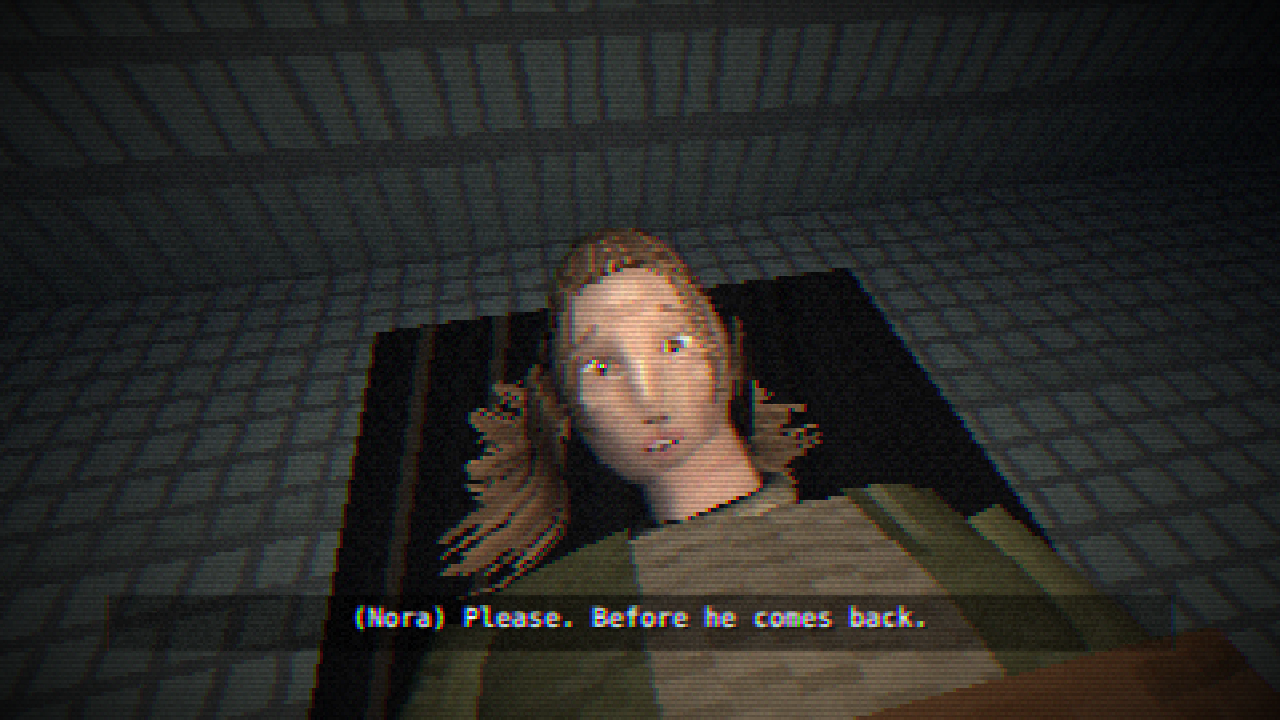
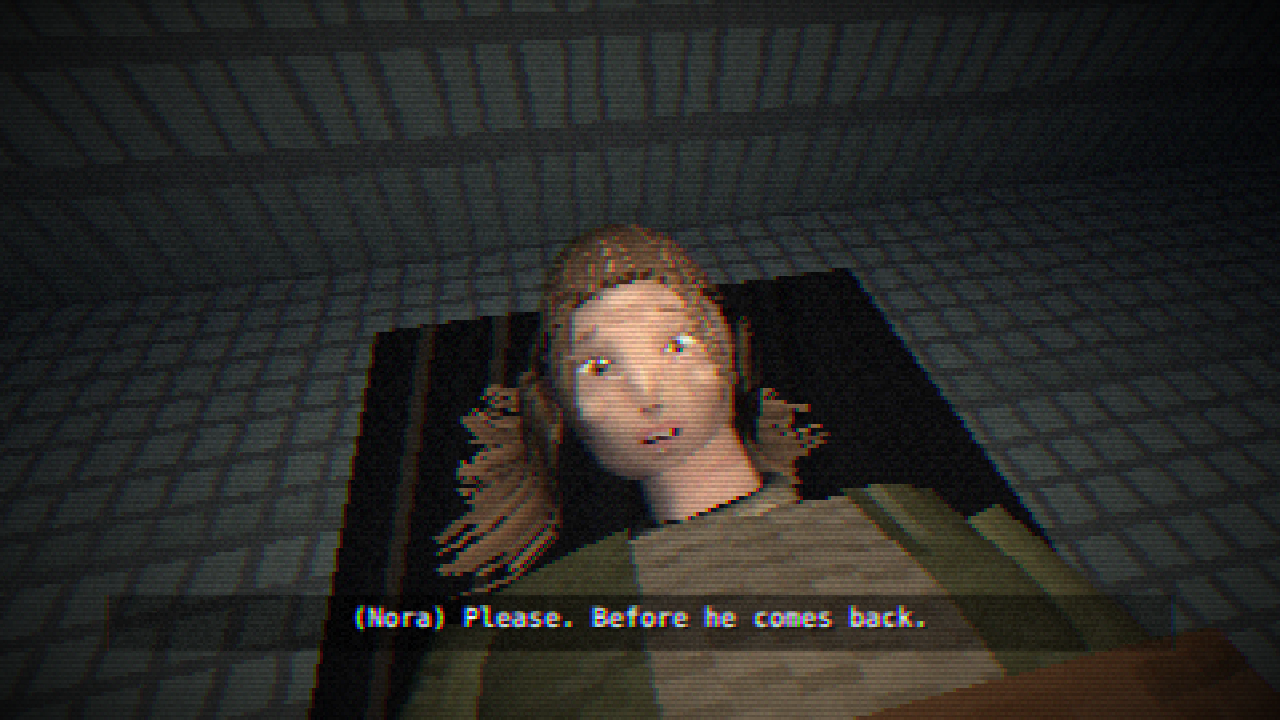
0.2.93: wing 4 stills, eleventh pass (nothing built)
Nora, after the owner's picks: her nose smaller, shorter and softer (a
short bridge, a round tip, only a faint light down it); her face rounder
with full cheeks and a soft chin and jaw; her hair fuller on top, rising
over her crown and either side of the parting, and her hairline lower.
Her mouth moved up with the shorter nose so it still sits a lip's height
under it. Mockup code only; nothing in the game changes.

Claude-Session: https://claude.ai/code/session_01Kt2ajWcwzg7QhP3mDk3ZUu

Changed region(s): [[0.3438, 0.3056, 0.6562, 0.8556], [0.5938, 0.6417, 0.625, 0.6722]]

diff --git a/src/props/noraFace.js b/src/props/noraFace.js
@@ -19,9 +19,9 @@ const seeded = (seed) => () => (seed = (seed * 16807) % 2147483647) / 2147483647
 export const FACE = {
   eye: [0.4, 0.03, 0.92],
   brow: [0.4, 0.2, 0.9],
-  noseTip: [0, -0.28, 0.96],
-  mouth: [0, -0.54, 0.84], // owner: the mouth sat a little far down (now a lip's height under her nose)
-  chin: [0, -0.86, 0.5],
+  noseTip: [0, -0.24, 0.97], // owner: smaller, shorter, softer
+  mouth: [0, -0.5, 0.86], // owner: the mouth sat a little far down (now a lip's height under her nose)
+  chin: [0, -0.84, 0.54],
 };
 
 const SKIN = [180, 144, 124];
@@ -72,8 +72,8 @@ function lightAndShade(g, at) {
     blot(g, ...at(mirror([0.4, 0.07, 0.91], side)), 13, 6, 'rgba(120,84,72,0.38)'); // the sockets, under the brow
     blot(g, ...at(mirror([0.4, -0.08, 0.9], side)), 9, 3, 'rgba(132,112,124,0.18)'); // the thin skin under the eyes
     blot(g, ...at(mirror([0.38, 0.18, 0.9], side)), 12, 3, 'rgba(214,186,164,0.3)'); // the brow bone
-    blot(g, ...at(mirror([0.56, -0.16, 0.8], side)), 10, 5, 'rgba(214,184,162,0.35)'); // the cheeks, round and lit
-    blot(g, ...at(mirror([0.58, -0.48, 0.67], side)), 11, 8, 'rgba(132,96,82,0.25)'); // softly under them
+    blot(g, ...at(mirror([0.54, -0.2, 0.8], side)), 12, 6, 'rgba(214,184,162,0.35)'); // the cheeks, full, round and lit
+    blot(g, ...at(mirror([0.6, -0.52, 0.6], side)), 10, 7, 'rgba(132,96,82,0.18)'); // softly under them
     blot(g, ...at(mirror([0.72, 0.3, 0.62], side)), 9, 10, 'rgba(132,98,84,0.3)'); // the temples
     blot(g, ...at(mirror([0.6, -0.74, 0.32], side)), 15, 6, 'rgba(96,66,56,0.5)'); // under the jaw
     blot(g, ...at(mirror([0.5, -0.3, 0.8], side)), 8, 5, 'rgba(198,120,108,0.16)'); // a little colour in her cheeks
@@ -81,22 +81,23 @@ function lightAndShade(g, at) {
   }
   blot(g, ...at([0, 0.44, 0.9]), 20, 8, 'rgba(216,190,168,0.3)'); // the forehead, catching the light
   blot(g, ...at([0, -0.86, 0.5]), 7, 3, 'rgba(212,184,162,0.35)'); // the chin
-  blot(g, ...at([0, -0.7, 0.71]), 9, 2.5, 'rgba(120,82,70,0.4)'); // under her lower lip
+  blot(g, ...at([0, -0.66, 0.75]), 9, 2.5, 'rgba(120,82,70,0.4)'); // under her lower lip
   nose(g, at);
 }
 
-// Light down the bridge, soft shade down one side and under the tip, the nostrils.
+// A small, soft nose: a faint light down the short bridge, soft shade down
+// one side and under the round tip, the nostrils.
 function nose(g, at) {
-  const [x, top] = at([0, 0.12, 1]);
+  const [x, top] = at([0, 0.04, 1]);
   const [, tip] = at(FACE.noseTip);
-  blot(g, x, (top + tip) / 2, 1.5, (tip - top) / 2, 'rgba(218,192,170,0.4)', 0.5);
-  blot(g, x + 4, (top + tip) / 2 + 3, 2.5, (tip - top) / 2, 'rgba(128,90,76,0.3)');
-  blot(g, x, tip, 4, 2.5, 'rgba(204,140,124,0.25)'); // the tip, a little warm
-  blot(g, x, tip + 4, 7, 2, 'rgba(110,72,62,0.5)'); // under it
-  g.fillStyle = 'rgba(86,52,44,0.7)';
-  g.fillRect(Math.round(x - 5), Math.round(tip + 3), 3, 1);
-  g.fillRect(Math.round(x + 2), Math.round(tip + 3), 3, 1);
-  blot(g, x, tip + 8, 2, 3, 'rgba(130,90,76,0.25)'); // the groove above her lip
+  blot(g, x, (top + tip) / 2 + 1, 1.5, (tip - top) / 2, 'rgba(216,190,168,0.25)', 0.5);
+  blot(g, x + 3.5, (top + tip) / 2 + 3, 2, (tip - top) / 2.4, 'rgba(128,90,76,0.25)');
+  blot(g, x, tip, 4.5, 3, 'rgba(206,146,128,0.22)'); // the round tip, a little warm
+  blot(g, x, tip + 3.5, 6, 1.8, 'rgba(110,72,62,0.45)'); // under it
+  g.fillStyle = 'rgba(92,56,48,0.6)';
+  g.fillRect(Math.round(x - 4), Math.round(tip + 2.5), 3, 1);
+  g.fillRect(Math.round(x + 1), Math.round(tip + 2.5), 3, 1);
+  blot(g, x, tip + 6.5, 2, 2.5, 'rgba(130,90,76,0.22)'); // the groove above her lip
 }
 
 // An eye opened wide with fear, on you: the white showing above the iris, a

diff --git a/src/props/noraHead.js b/src/props/noraHead.js
@@ -2,8 +2,8 @@
 // her). Owner 2026-11-17, after many passes: "a real, ordinary woman" and
 // "simple natural hair" (two qualities of another game's heroine the owner
 // pointed to, taken in spirit only). Sculpted for an ordinary young woman: a
-// straight nose, full lips, soft round cheeks, a soft jaw, the lower face long
-// enough; not quite the same on both sides. Her face is painted in
+// small, short, soft nose, full lips, a round face with full cheeks, a soft
+// jaw; not quite the same on both sides. Her face is painted in
 // noraFace.js, her hair built in noraHair.js. Origin at the head's centre,
 // the face looking down +z.
 import * as THREE from 'three';
@@ -15,24 +15,24 @@ import { hairOnHead, hasHair } from './noraHair.js';
 const both = (bumps) => bumps.flatMap((b) => (b.at[0] ? [b, { ...b, at: [-b.at[0], b.at[1], b.at[2]] }] : [b]));
 
 const BUMPS = both([
-  { at: [0, -0.06, 1], size: 0.12, stretch: [0.42, 1.9, 1], amount: 0.16 }, // the bridge of her nose
-  { at: FACE.noseTip, size: 0.08, amount: 0.09 }, // its tip
-  { at: [0.09, -0.36, 0.93], size: 0.05, amount: 0.04 }, // its wings
+  { at: [0, -0.1, 1], size: 0.1, stretch: [0.42, 1.3, 1], amount: 0.11 }, // the bridge of her nose, short (owner: smaller, softer)
+  { at: FACE.noseTip, size: 0.085, amount: 0.07 }, // its tip, round
+  { at: [0.08, -0.31, 0.95], size: 0.05, amount: 0.035 }, // its wings
   { at: [0.36, 0.24, 0.9], size: 0.15, stretch: [1.5, 0.5, 1], amount: 0.05 }, // her brows, lifted
   { at: FACE.eye, size: 0.12, amount: -0.08 }, // her eyes
-  { at: [0.56, -0.16, 0.8], size: 0.17, amount: 0.07 }, // her cheeks, soft and round
-  { at: [0, -0.53, 0.85], size: 0.12, stretch: [1.7, 0.8, 1], amount: 0.055 }, // full lips
+  { at: [0.54, -0.22, 0.8], size: 0.2, amount: 0.1 }, // her cheeks, full and round (owner: rounder)
+  { at: [0, -0.49, 0.87], size: 0.12, stretch: [1.7, 0.8, 1], amount: 0.055 }, // full lips
   { at: FACE.mouth, size: 0.06, stretch: [1.6, 0.9, 1], amount: -0.055 }, // parted, her breath caught
-  { at: FACE.chin, size: 0.15, amount: 0.06 }, // her chin
-  { at: [0.62, -0.7, 0.32], size: 0.2, amount: 0.02 }, // a soft jaw
-  { at: [0.85, 0.32, 0.4], size: 0.2, amount: -0.03 }, // her temples
+  { at: FACE.chin, size: 0.17, amount: 0.045 }, // her chin, soft
+  { at: [0.62, -0.7, 0.32], size: 0.22, amount: 0.04 }, // a soft, round jaw
+  { at: [0.85, 0.32, 0.4], size: 0.2, amount: -0.02 }, // her temples
   { at: [1, 0, -0.05], size: 0.12, stretch: [0.5, 1.4, 0.7], amount: 0.08 }, // her ears
 ]).concat([ // no face is the same on both sides
   { at: [0.6, -0.1, 0.79], size: 0.1, amount: 0.015 }, // the bruised cheekbone, a little swollen
   { at: [0.03, -0.12, 1], size: 0.08, amount: 0.012 }, // her nose a little off true
 ]);
 
-const SCALE = [0.7, 1.05, 0.92];
+const SCALE = [0.74, 1.0, 0.93]; // a rounder face, less long
 const RADIUS = 0.1;
 
 // Her head; its userData.hair tells hairFall (noraHair.js) where her hair grows.

diff --git a/src/props/noraHair.js b/src/props/noraHair.js
@@ -22,15 +22,18 @@ const PARTING = -0.04;
 // Whether her hair grows at a direction from the head's centre: not on her
 // face and forehead, nor on her cheeks, ears and jaw; down to her nape.
 export function hasHair(d) {
-  if (d.z > 0.1 && d.y < 0.6 - 0.32 * d.x * d.x) return false;
+  if (d.z > 0.1 && d.y < 0.52 - 0.3 * d.x * d.x) return false; // owner: the hairline a little lower
   if (d.y < 0.16 && d.z > -0.22) return false;
   return d.y > -0.6;
 }
 
-// Straight hair lies close over the top of her head, fuller at the back.
+// Hair with body (owner: fuller on top): risen from her scalp over the crown
+// and either side of the parting, fuller at the back, thin only where it
+// meets her forehead.
 function thickness(d) {
   const front = Math.max(0, d.z);
-  return 0.01 + 0.03 * (1 - front * 0.85) + 0.02 * Math.max(0, -d.z) + 0.003 * Math.sin(Math.atan2(d.x, d.z) * 11);
+  const crown = 0.05 * Math.max(0, d.y);
+  return 0.014 + 0.05 * (1 - front * 0.8) + crown + 0.025 * Math.max(0, -d.z) + 0.003 * Math.sin(Math.atan2(d.x, d.z) * 11);
 }
 
 const mix = (k) => ROOT.map((c, i) => c + (ENDS[i] - c) * k);
@@ -48,7 +51,7 @@ function scalpTexture() {
         const d = texelDirection(px + 0.5, py + 0.5, w, h);
         if (!hasHair({ x: d.x, y: d.y + tips[px], z: d.z })) continue;
         const [r, gr, b] = mix(Math.min(1, (py / h) * 1.6)); // lighter further down
-        const k = 0.8 + streak[px] * 0.35 + (streak[px] > 0.85 ? 0.3 : 0) - (px % 3 === 0 ? 0.07 : 0) + (random() - 0.5) * 0.08;
+        const k = 0.8 + streak[px] * 0.35 + (streak[px] > 0.85 ? 0.3 : 0) - (px % 3 === 0 ? 0.04 : 0) + (random() - 0.5) * 0.08;
         image.data.set([Math.min(255, r * k), Math.min(255, gr * k), Math.min(255, b * k), 255], (py * w + px) * 4);
       }
     }
@@ -100,7 +103,7 @@ export function hairOnHead(head, { radius, bumps, scale }) {
   const shell = sculptedHead(radius, bumps, { scale, width: 32, height: 22, extra: thickness });
   const meshes = [new THREE.Mesh(shell.geometry, cut(scalpTexture()))];
   [[-1, 41], [1, 42]].forEach(([side, seed]) => {
-    const geometry = headPatch(head, (s, u) => [side * (0.58 + s * 0.16) + (u - 0.5) * 0.26, 0.68 - s * 1.15], { columns: 10, rows: 2, out: 0.006 });
+    const geometry = headPatch(head, (s, u) => [side * (0.58 + s * 0.16) + (u - 0.5) * 0.26, 0.6 - s * 1.07], { columns: 10, rows: 2, out: 0.006 });
     meshes.push(new THREE.Mesh(geometry, cut(lockTexture(seed, { along: true }))));
   });
   return { meshes, at: shell.at };

diff --git a/CHANGELOG.md b/CHANGELOG.md
@@ -2,6 +2,7 @@
 
 Newest first. One line per change.
 
+- 0.2.93 — Wing 4 stills, eleventh pass: Nora's nose smaller, shorter and softer, her face rounder with fuller cheeks, her hair fuller on top and her hairline lower (her mouth kept a lip's height under her nose). Nothing in the game changes.
 - 0.2.92 — Wing 4 stills, tenth pass: Nora's mouth moved up under her nose, and her fear a step plainer (wider eyes with white above the irises, brows higher and drawn in, lips further apart). Nothing in the game changes.
 - 0.2.91 — Wing 4 stills, ninth pass: Nora redrawn from the owner's reference, in spirit only: one plain, believable young woman (soft, photograph-like shading, clear skin, her fear quiet in her eyes and parted lips) with straight light-brown hair parted in the middle, loose to her shoulders; the close-up sees her face upright as she lifts her head to you; the three versions are dropped. Nothing in the game changes.
 - 0.2.90 — Wing 4 stills, eighth pass: Nora no longer a mannequin: living skin (uneven tone, freckles, sweat, wet eyes, a shine on her lip), a face not the same on both sides, a short straining neck going into a knitted collar, and clothes with weave, wear and creases; still three versions to pick from. Nothing in the game changes.

diff --git a/docs/DESIGN_0.5.md b/docs/DESIGN_0.5.md
@@ -275,6 +275,14 @@ item or text exists yet; the mockup captions are mockup copy (game text will go 
   plainer: her eyes wider, the white showing above her irises, her brows lifted higher and drawn
   in, faint lines across her forehead, her lips further apart with her top teeth showing.
 
+## Owner's notes on the tenth pass (2026-11-17) and the eleventh
+- **Nora, one more small change: her nose smaller, shorter and softer; her face rounder with
+  fuller cheeks; her hair fuller on top and her hairline a little lower.** Her nose is now short
+  with a round tip and only a faint light down the bridge; her face wider and less long, the
+  cheeks full, the chin and jaw soft; her hair rises over her crown and either side of the
+  parting, and starts lower on her forehead. Her mouth moved up with her shorter nose, so it
+  still sits a lip's height under it.
+
 ## Open questions (asked 2026-11-17, answered above)
 1. **The fourth piece:** her heart (a stone heart: "a house needs a heart"), her crown, or her face.
 2. **The surgeon:** Dr. Venn himself, or a surgeon of his we have not met.

diff --git a/docs/HANDOFF.md b/docs/HANDOFF.md
@@ -299,5 +299,7 @@ creases, in the same three versions. Waiting on the pick.
 spirit only): one plain, believable young woman, quiet fear, straight light-brown hair parted in
 the middle; the three versions dropped. Waiting on Nora.
 **0.5 stills, tenth pass (0.2.92):** Nora "close": more afraid, her mouth moved up. Waiting on Nora.
+**0.5 stills, eleventh pass (0.2.93):** Nora's nose smaller and softer, her face rounder, her hair
+fuller on top with a lower hairline. Waiting on Nora.
 A fix on the way (0.2.30): the journal's map page in the courtyard threw errors once the hall plan
 was taken.
